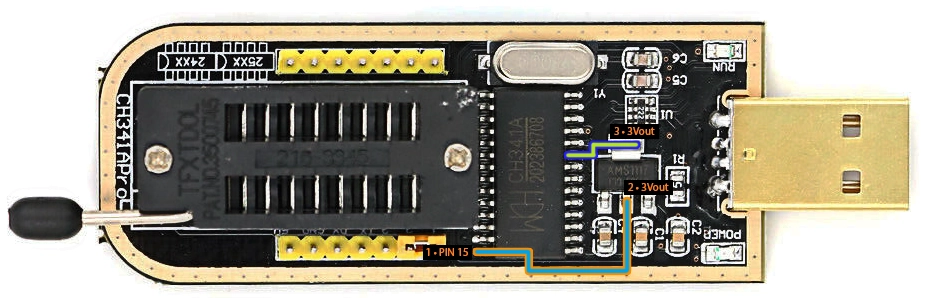
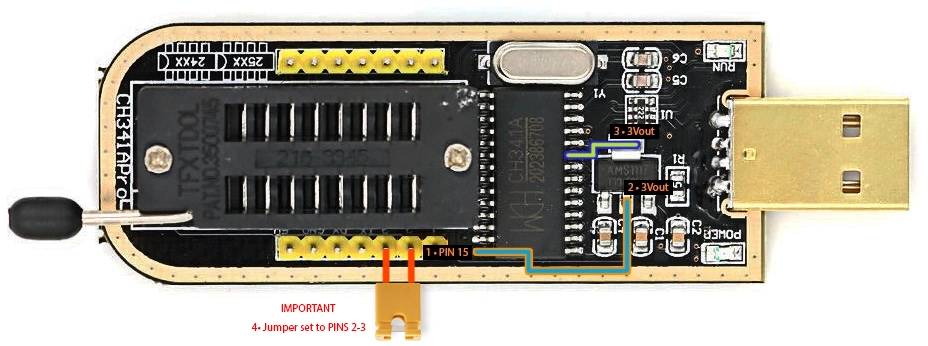
updated ch341a to include instructions for jumper pins

diff --git a/TSB/Sony/PlayStation5/UART/CH341A33VMod.md b/TSB/Sony/PlayStation5/UART/CH341A33VMod.md
@@ -10,16 +10,22 @@ The mod is necessary to ensure compatibility with devices requiring 3.3v on the 
 **Steps:**
 
 1.  **Locate PIN 15:**
-    *   Identify PIN 15 on the CH341A IC and isolate it from the board, ensuring it doesn't touch the original 5v pad below.
+    *   Identify PIN 15 on the CH341A IC ([Reference Image](#ch341a-reference-image) labeled 1) and isolate it from the board, ensuring it doesn't touch the original 5v pad below.
 2.  **Soldering:**    
     *   Using two wires:
         * Connect one end of the first wire to the lifted PIN 15 on the CH341A IC.
+        *[Reference Image](#ch341a-reference-image) labeled 1*
         * Connect the other end of the first wire to the 3Vout middle pin on the bottom of the voltage regulator.  
-        *Note: See [Reference Image](#ch341a-reference-image) orange and blue wire.*
+        *[Reference Image](#ch341a-reference-image) labeled 2 - orange and blue wire.*
         * Connect one end of the second wire to PIN 9 on the CH341A IC.
+        *[Reference Image](#ch341a-reference-image) labeled 3*
         * Connect the other end of the second wire to the 3Vout top pin of the voltage regulator.  
-        *Note: See [Reference Image](#ch341a-reference-image) green and blue wire.*
+        *[Reference Image](#ch341a-reference-image) labeled 3 - green and blue wire.*
 3.  **Verification:**    
     *   Verify that there is a 3v output on both TX and RX pins.
-4.  **Completion:**    
+4.  **Switch CH341A Interface To TTL/UART IMPORTANT:** 
+    * Move or add a jumper to PINS labeled 2 and 3.  
+    *[Reference Image](#ch341a-reference-image) labeled Important  4.*
+    *Note: This step is important. You will not get a serial port if you do not switch or add a jumper.  
+5.  **Completion:**    
     *   Once the modifications are verified, the CH341A UART Module is ready for use with devices requiring 3.3v on the TX/RX lines.
